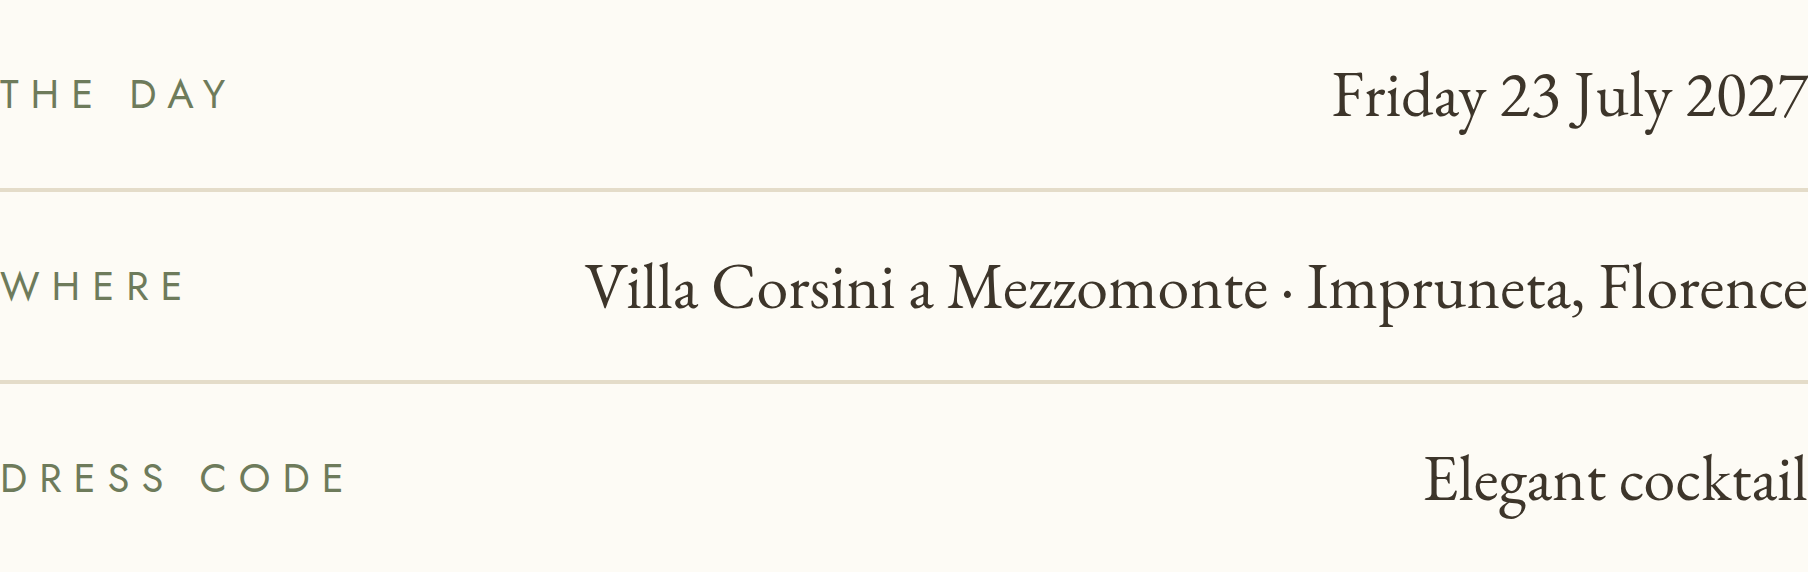
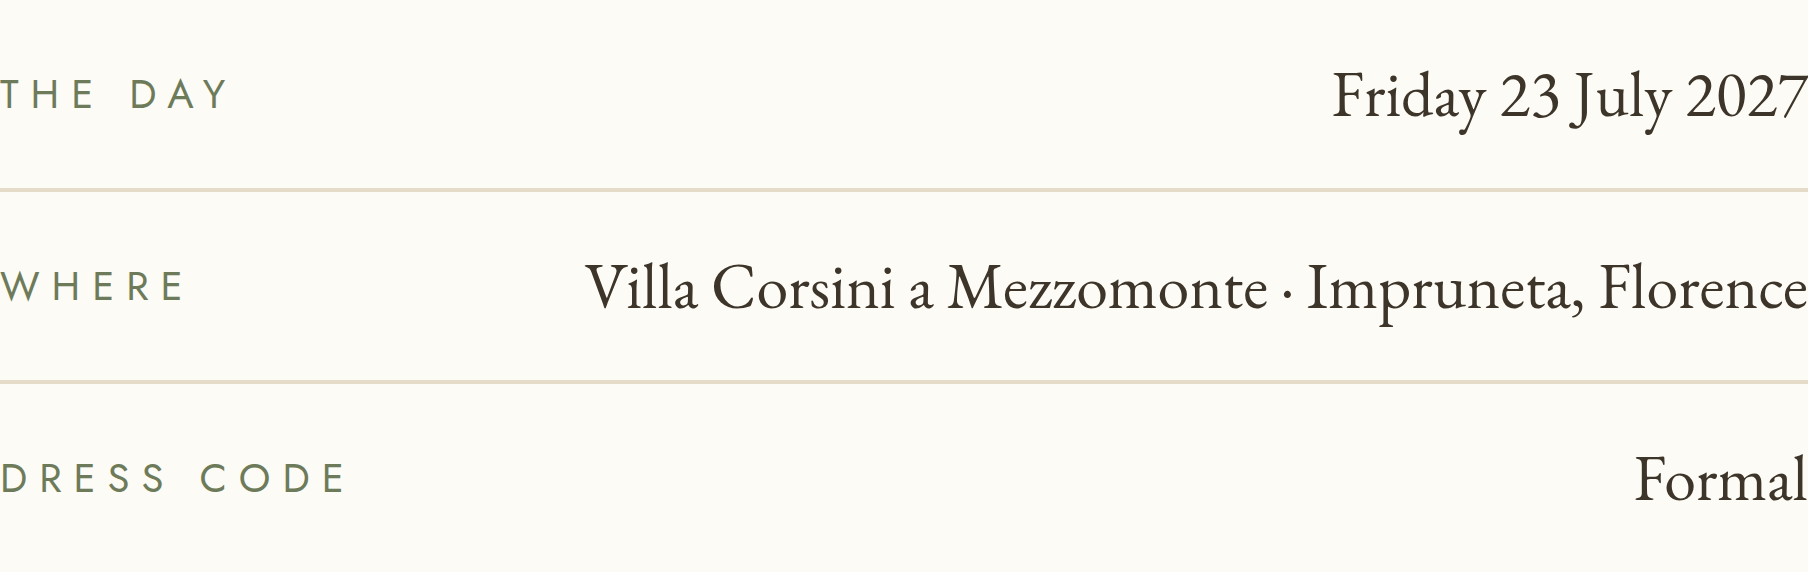
Formal, on the invitation and on the site
The invitation's details line now reads Formale / Formelle / Formal, and the
site's dress code opens with the same word before the rest of the request.

Claude-Session: https://claude.ai/code/session_01WFYf9ePHzRaJm7JcUWVSwK

Changed region(s): [[0.7743, 0.7812, 0.9912, 0.875]]

diff --git a/site/js/i18n.js b/site/js/i18n.js
@@ -23,7 +23,7 @@ const I18N = {
 
     "day.over":"Il giorno","day.title":"Il programma","day.note":"Gli orari saranno confermati.",
     "day.t1":"Arrivo & benvenuto","day.t2":"Cerimonia","day.t3":"Aperitivo nei giardini","day.t4":"Cena nella galleria affrescata","day.t5":"Si balla","day.t6":"Saluti","day.t6.time":"tardi",
-    "day.dress.label":"Dress code","day.dress.value":"Ai signori chiediamo cortesemente smoking o completo; alle signore un abito, una jumpsuit, un tailleur o lo smoking. Il bianco, in ogni sua sfumatura, è della sposa. Niente sneakers, niente infradito, niente pantaloncini.","day.dress.women":"Esempi di abiti da sera per le ospiti","day.dress.men":"Esempi di completi eleganti per gli ospiti","day.map.cap":"I giardini e la disposizione dei tavoli.",
+    "day.dress.label":"Dress code","day.dress.value":"Formale. Ai signori chiediamo cortesemente smoking o completo; alle signore un abito, una jumpsuit, un tailleur o lo smoking. Il bianco, in ogni sua sfumatura, è della sposa. Niente sneakers, niente infradito, niente pantaloncini.","day.dress.women":"Esempi di abiti da sera per le ospiti","day.dress.men":"Esempi di completi eleganti per gli ospiti","day.map.cap":"I giardini e la disposizione dei tavoli.",
 
     "venue.over":"Il luogo","venue.title":"Villa Corsini a Mezzomonte",
     "venue.body":"Una villa medicea del Quattrocento sulle colline a sud di Firenze, acquistata da Lorenzo il Magnifico nel 1480 e affrescata negli anni 1630 per il principe Giovan Carlo de' Medici. Dal 1644 è dei Corsini: giardini all'italiana, cipressi e oliveti affacciati sulle colline del Chianti.",
@@ -77,7 +77,7 @@ const I18N = {
 
     "day.over":"Le jour J","day.title":"Le déroulé","day.note":"Les horaires seront confirmés.",
     "day.t1":"Arrivée & accueil","day.t2":"Cérémonie","day.t3":"Cocktail dans les jardins","day.t4":"Dîner dans la galerie à fresques","day.t5":"Soirée dansante","day.t6":"Fin de soirée","day.t6.time":"tard",
-    "day.dress.label":"Tenue","day.dress.value":"Nous demandons aux messieurs le smoking ou le costume ; aux dames, une robe, une combinaison, un tailleur ou le smoking. Le blanc, dans toutes ses nuances, appartient à la mariée. Ni baskets, ni tongs, ni shorts.","day.dress.women":"Exemples de tenues de soirée pour les invitées","day.dress.men":"Exemples de costumes élégants pour les invités","day.map.cap":"Les jardins et le plan de table.",
+    "day.dress.label":"Tenue","day.dress.value":"Formelle. Nous demandons aux messieurs le smoking ou le costume ; aux dames, une robe, une combinaison, un tailleur ou le smoking. Le blanc, dans toutes ses nuances, appartient à la mariée. Ni baskets, ni tongs, ni shorts.","day.dress.women":"Exemples de tenues de soirée pour les invitées","day.dress.men":"Exemples de costumes élégants pour les invités","day.map.cap":"Les jardins et le plan de table.",
 
     "venue.over":"Le lieu","venue.title":"Villa Corsini a Mezzomonte",
     "venue.body":"Une villa médicéenne du XVᵉ siècle sur les collines au sud de Florence, achetée par Laurent le Magnifique en 1480 et ornée de fresques dans les années 1630 pour le prince Giovan Carlo de' Medici. Aux Corsini depuis 1644 : jardins à l'italienne, cyprès et oliveraies dominant les collines du Chianti.",
@@ -131,7 +131,7 @@ const I18N = {
 
     "day.over":"The day","day.title":"The programme","day.note":"Times to be confirmed.",
     "day.t1":"Arrival & welcome","day.t2":"Ceremony","day.t3":"Aperitivo in the gardens","day.t4":"Dinner in the frescoed gallery","day.t5":"Dancing","day.t6":"Farewell","day.t6.time":"late",
-    "day.dress.label":"Dress code","day.dress.value":"Gentlemen are kindly asked to wear a tuxedo or a suit; ladies, a dress, a jumpsuit, a tailored suit or a tuxedo. White, in all its shades, belongs to the bride. No sneakers, no flip-flops, no shorts.","day.dress.women":"Evening-wear inspiration for guests","day.dress.men":"Elegant suit inspiration for guests","day.map.cap":"The gardens and the seating plan.",
+    "day.dress.label":"Dress code","day.dress.value":"Formal. Gentlemen are kindly asked to wear a tuxedo or a suit; ladies, a dress, a jumpsuit, a tailored suit or a tuxedo. White, in all its shades, belongs to the bride. No sneakers, no flip-flops, no shorts.","day.dress.women":"Evening-wear inspiration for guests","day.dress.men":"Elegant suit inspiration for guests","day.map.cap":"The gardens and the seating plan.",
 
     "venue.over":"The venue","venue.title":"Villa Corsini a Mezzomonte",
     "venue.body":"A fifteenth-century Medici villa in the hills south of Florence, bought by Lorenzo the Magnificent in 1480 and frescoed in the 1630s for Prince Giovan Carlo de' Medici. Held by the Corsini family since 1644 — formal box gardens, cypress and olive groves looking over the Chianti hills.",

diff --git a/tools/invites/assets/render-card.js b/tools/invites/assets/render-card.js
@@ -49,19 +49,19 @@ const COPY = {
   it: { over:'VILLA CORSINI A MEZZOMONTE · FIRENZE', tag:'Ci sposiamo', date:'Venerdì 23 luglio 2027',
         body:'Insieme alle nostre famiglie, abbiamo la gioia di invitarvi a celebrare il nostro matrimonio. Ci sposiamo tra le colline di Firenze, a Villa Corsini a Mezzomonte: una giornata di festa fra giardini, arte e buon vino, con le persone che amiamo.',
         kDay:'Il giorno', vDay:'Venerdì 23 luglio 2027', kWhere:'Dove',
-        vWhere:'Villa Corsini a Mezzomonte · Impruneta, Firenze', kDress:'Dress code', vDress:'Cocktail elegante',
+        vWhere:'Villa Corsini a Mezzomonte · Impruneta, Firenze', kDress:'Dress code', vDress:'Formale',
         siteLead:'Il programma, il viaggio e la vostra risposta sono sul nostro sito.', close:'A presto,',
         pwk:'Password del sito', cta:'Apri il sito e rispondi', byLabel:'Rispondete entro il' },
   fr: { over:'VILLA CORSINI A MEZZOMONTE · FLORENCE', tag:'Nous nous marions', date:'Vendredi 23 juillet 2027',
         body:'Avec nos familles, nous avons la joie de vous inviter à célébrer notre mariage. Nous nous marions sur les collines de Florence, à la Villa Corsini a Mezzomonte : une journée de fête entre jardins, art et bon vin, avec ceux que nous aimons.',
         kDay:'Le jour', vDay:'Vendredi 23 juillet 2027', kWhere:'Lieu',
-        vWhere:'Villa Corsini a Mezzomonte · Impruneta, Florence', kDress:'Tenue', vDress:'Cocktail élégant',
+        vWhere:'Villa Corsini a Mezzomonte · Impruneta, Florence', kDress:'Tenue', vDress:'Formelle',
         siteLead:'Le programme, le voyage et votre réponse sont sur notre site.', close:'À très bientôt,',
         pwk:'Mot de passe du site', cta:'Ouvrir le site et répondre', byLabel:'Merci de répondre avant le' },
   en: { over:'VILLA CORSINI A MEZZOMONTE · FLORENCE', tag:"We're getting married", date:'Friday · 23 July 2027',
         body:"Together with our families, we are delighted to invite you to celebrate our wedding. We're getting married in the hills of Florence, at Villa Corsini a Mezzomonte — a day of celebration among gardens, art and good wine, with the people we love.",
         kDay:'The day', vDay:'Friday 23 July 2027', kWhere:'Where',
-        vWhere:'Villa Corsini a Mezzomonte · Impruneta, Florence', kDress:'Dress code', vDress:'Elegant cocktail',
+        vWhere:'Villa Corsini a Mezzomonte · Impruneta, Florence', kDress:'Dress code', vDress:'Formal',
         siteLead:'The programme, the journey and your reply are on our site.', close:'See you very soon,',
         pwk:'Site password', cta:'Open the site and RSVP', byLabel:'Kindly reply by' },
 };

diff --git a/tools/invites/preview/invite-preview.html b/tools/invites/preview/invite-preview.html
@@ -345,7 +345,7 @@ const COPY = {
     body:'Insieme alle nostre famiglie, abbiamo la gioia di invitarvi a celebrare il nostro matrimonio. Ci sposiamo tra le colline di Firenze, a Villa Corsini a Mezzomonte: una giornata di festa fra giardini, arte e buon vino, con le persone che amiamo.',
     kDay:'Il giorno', vDay:'Venerdì 23 luglio 2027',
     kWhere:'Dove', vWhere:'Villa Corsini a Mezzomonte · Impruneta, Firenze',
-    kDress:'Dress code', vDress:'Cocktail elegante',
+    kDress:'Dress code', vDress:'Formale',
     siteLead:'Il programma, il viaggio e la vostra risposta sono sul nostro sito.',
     pwk:'Password del sito', cta:'Apri il sito e rispondi', byLabel:'Rispondete entro il',
     by:d=>'Vi preghiamo di confermare entro il '+d+'.',
@@ -360,7 +360,7 @@ const COPY = {
     body:'Avec nos familles, nous avons la joie de vous inviter à célébrer notre mariage. Nous nous marions sur les collines de Florence, à la Villa Corsini a Mezzomonte : une journée de fête entre jardins, art et bon vin, avec ceux que nous aimons.',
     kDay:'Le jour', vDay:'Vendredi 23 juillet 2027',
     kWhere:'Lieu', vWhere:'Villa Corsini a Mezzomonte · Impruneta, Florence',
-    kDress:'Tenue', vDress:'Cocktail élégant',
+    kDress:'Tenue', vDress:'Formelle',
     siteLead:'Le programme, le voyage et votre réponse sont sur notre site.',
     pwk:'Mot de passe du site', cta:'Ouvrir le site et répondre', byLabel:'Merci de répondre avant le',
     by:d=>'Merci de confirmer avant le '+d+'.',
@@ -375,7 +375,7 @@ const COPY = {
     body:"Together with our families, we are delighted to invite you to celebrate our wedding. We're getting married in the hills of Florence, at Villa Corsini a Mezzomonte — a day of celebration among gardens, art and good wine, with the people we love.",
     kDay:'The day', vDay:'Friday 23 July 2027',
     kWhere:'Where', vWhere:'Villa Corsini a Mezzomonte · Impruneta, Florence',
-    kDress:'Dress code', vDress:'Elegant cocktail',
+    kDress:'Dress code', vDress:'Formal',
     siteLead:'The programme, the journey and your reply are on our site.',
     pwk:'Site password', cta:'Open the site and RSVP', byLabel:'Kindly reply by',
     by:d=>'Kindly reply by '+d+'.',

diff --git a/site/index.html b/site/index.html
@@ -183,7 +183,7 @@
         </ul>
         <dl class="factbox">
           <dt data-i18n="day.dress.label">Dress code</dt>
-          <dd data-i18n="day.dress.value">Cocktail elegante — lo smoking non è obbligatorio, ma vestitevi eleganti.</dd>
+          <dd data-i18n="day.dress.value">Formale. Ai signori chiediamo cortesemente smoking o completo; alle signore un abito, una jumpsuit, un tailleur o lo smoking. Il bianco, in ogni sua sfumatura, è della sposa. Niente sneakers, niente infradito, niente pantaloncini.</dd>
         </dl>
         <div class="dresscode">
           <figure class="dresscode__fig"><img src="assets/img/dress-women-cut.webp" width="760" height="415" loading="lazy" alt="" data-i18n-attr="alt:day.dress.women"></figure>
